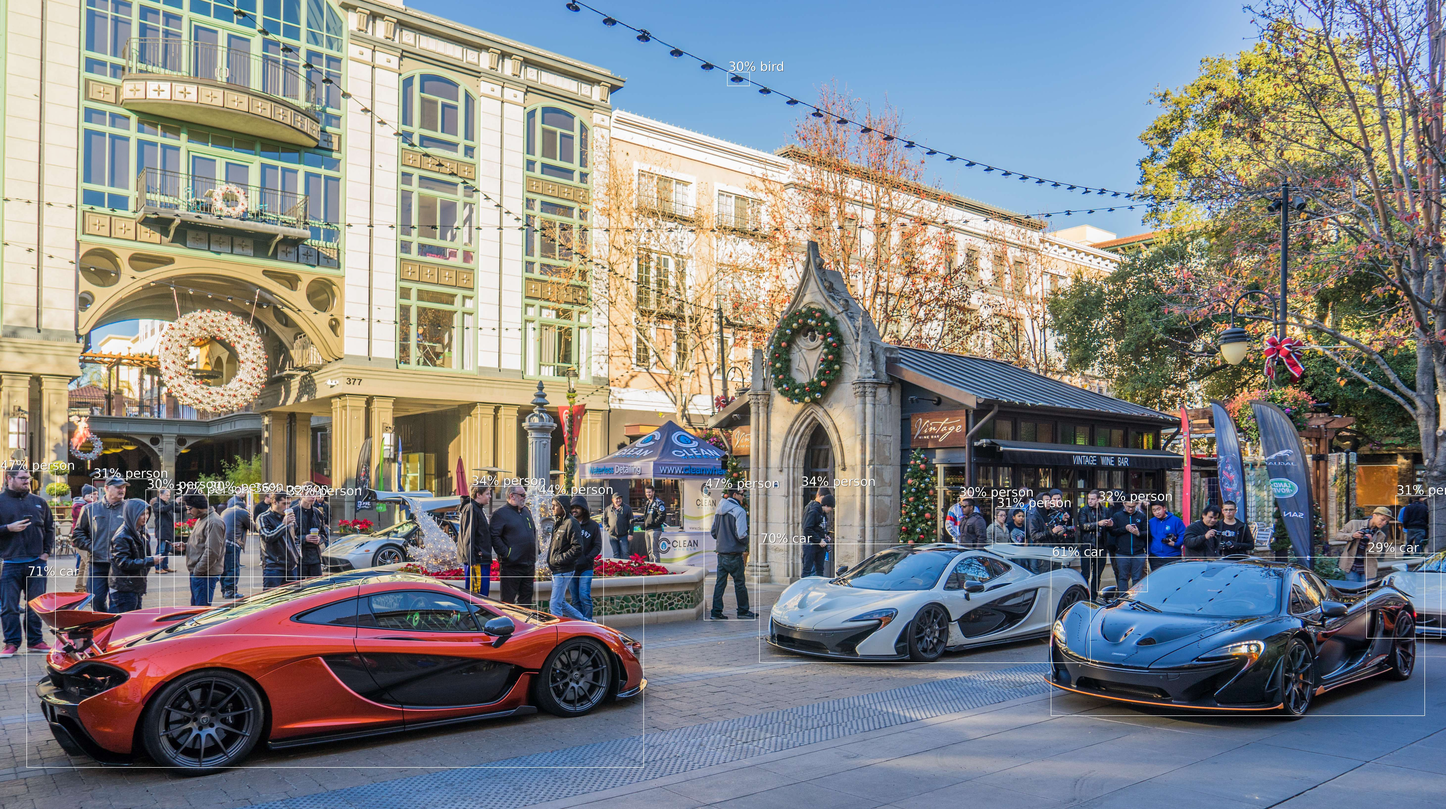
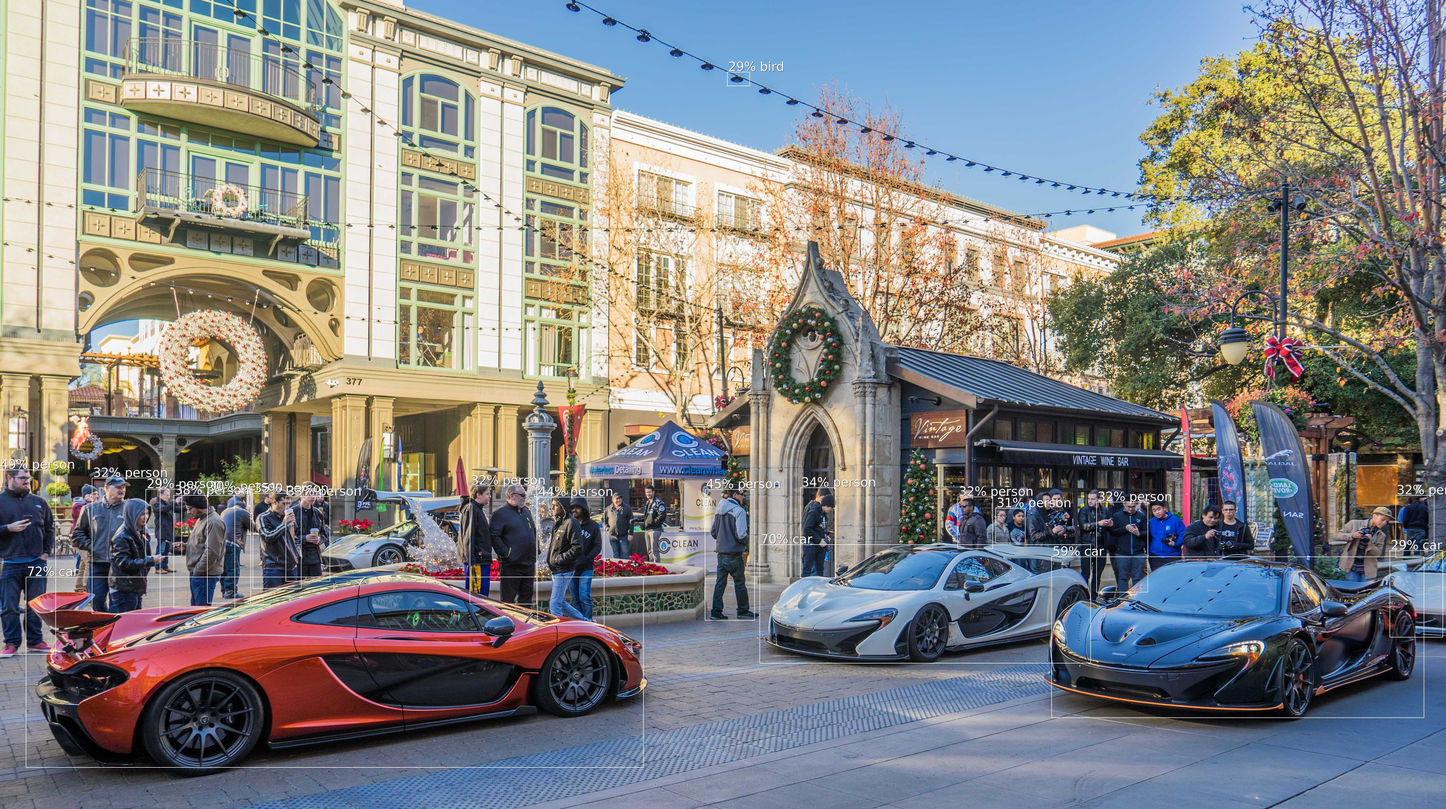
update

diff --git a/mb3-centernet.js b/mb3-centernet.js
@@ -8,7 +8,7 @@ const { labels } = require('./coco-labels'); // note that number of labels *must
 
 const modelOptions = {
   modelPath: 'file://model-f16/mb3-centernet.json',
-  outputTensors: ['tower_0/detections'], // ['tower_0/detections', 'tower_0/wh', 'tower_0/keypoints']
+  outputTensors: ['tower_0/detections'], // ['tower_0/detections', 'tower_0/wh', 'tower_0/keypoints'],
   minScore: 0.10, // low confidence, but still remove irrelevant
   iouThreshold: 0.40, // percentage when removing overlapped boxes
   maxResults: 20, // high number of results, but likely never reached
@@ -47,7 +47,7 @@ async function saveImage(img, res) {
   const out = fs.createWriteStream(outImage);
   out.on('finish', () => log.state('Created output image:', outImage));
   out.on('error', (err) => log.error('Error creating image:', outImage, err));
-  const stream = c.createJPEGStream({ quality: 0.6, progressive: true, chromaSubsampling: true });
+  const stream = c.createJPEGStream({ quality: 0.5, progressive: true, chromaSubsampling: true });
   stream.pipe(out);
 }
 
@@ -135,6 +135,7 @@ async function main() {
   // run actual prediction
   const t0 = process.hrtime.bigint();
   const res = model.execute(img.tensor, modelOptions.outputTensors);
+  console.log(res);
   const t1 = process.hrtime.bigint();
   log.info('Inference time:', Math.round(parseInt((t1 - t0).toString()) / 1000 / 1000), 'ms');
 

diff --git a/README.md b/README.md
@@ -24,18 +24,24 @@ tensorflowjs_converter \
 ```
 
 ```js
-2021-05-18 17:54:29 DATA:  created on: 2021-05-18T21:49:00.080Z
-2021-05-18 17:54:29 INFO:  graph model: /home/vlado/dev/mb3-centernet/graph-f16/model.json
-2021-05-18 17:54:29 INFO:  size: { unreliable: true, numTensors: 267, numDataBuffers: 267, numBytes: 8060260 }
-2021-05-18 17:54:29 INFO:  model inputs based on executor
-2021-05-18 17:54:29 INFO:  model outputs based on executor
-2021-05-18 17:54:29 DATA:  inputs: [ { name: 'tower_0/images', dtype: 'float32', shape: [ 1, 512, 512, 3 }
-2021-05-18 17:54:29 DATA:  outputs: [
-  { id: 0, name: 'tower_0/wh', dtype: 'DT_FLOAT', shape: undefined },
-  { id: 1, name: 'tower_0/keypoints', dtype: 'DT_FLOAT', shape: undefined },
-  { id: 2, name: 'tower_0/detections', dtype: 'DT_FLOAT', shape: undefined },
+2021-05-19 07:12:34 INFO:  nanodet version 0.0.1
+2021-05-19 07:12:34 INFO:  User: vlado Platform: linux Arch: x64 Node: v16.0.0
+2021-05-19 07:12:34 DATA:  created on: 2021-05-18T21:49:02.930Z
+2021-05-19 07:12:34 INFO:  graph model: /home/vlado/dev/mb3-centernet/model-f16/mb3-centernet.json
+2021-05-19 07:12:34 INFO:  size: { unreliable: true, numTensors: 267, numDataBuffers: 267, numBytes: 8060260 }
+2021-05-19 07:12:34 INFO:  model inputs based on signature
+2021-05-19 07:12:34 INFO:  model outputs based on signature
+2021-05-19 07:12:34 DATA:  inputs: [ { name: 'tower_0/images', dtype: 'DT_FLOAT', shape: [ 1, 512, 512, 3, [length]: 4 ] }, [length]: 1 ]
+2021-05-19 07:12:34 DATA:  outputs: [
+  { id: 0, name: 'tower_0/wh', dytpe: 'DT_FLOAT', shape: [ 1, 128, 128, 4, [length]: 4 ] },
+  { id: 1, name: 'tower_0/keypoints', dytpe: 'DT_FLOAT', shape: [ 1, 128, 128, 80, [length]: 4 ] },
+  { id: 2, name: 'tower_0/detections', dytpe: 'DT_FLOAT', shape: [ 1, 100, 6, [length]: 3 ] },
+  [length]: 3
 ]
 ```
+
+Where `tower_0/detections` is array of COCO classes * [ x1, y1, x2, y2, score, class ]  
+`tower_0/detections` is built in-model from `tower_0/wh` which contains strided heatmap - since it's already processed into detections, we don't need heatmap post-processing  
 
 <br><hr><br>
 
